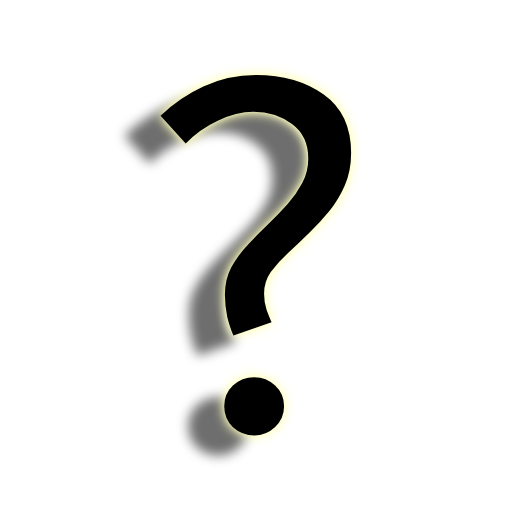
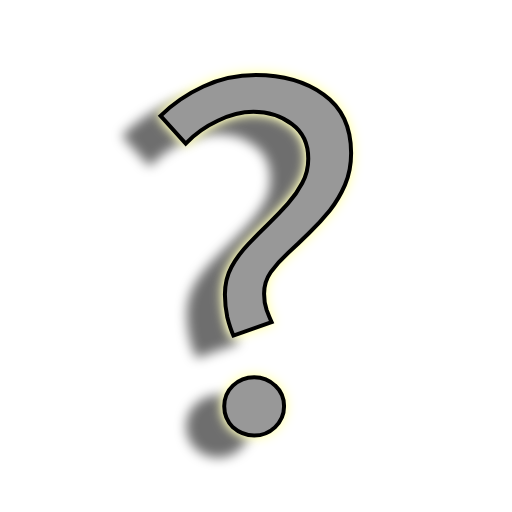
refactor: Centralise da roobot and mouse control in MouseOwner

Changed region(s): [[0.3125, 0.125, 0.6875, 0.6562], [0.4062, 0.7188, 0.5625, 0.875]]

diff --git a/src/main/java/com/j3d/engine/interact/input/mouse/MouseOwner.java b/src/main/java/com/j3d/engine/interact/input/mouse/MouseOwner.java
@@ -1,6 +1,8 @@
 package com.j3d.engine.interact.input.mouse;
 
 import com.j3d.StaticRefs;
+import com.j3d.engine.EngineException;
+import com.j3d.engine.interact.InteractionException;
 import com.j3d.engine.math.ScreenPoint;
 import com.j3d.engine.interact.selection.SelectionMouseOwner;
 import com.j3d.engine.react.events.*;
@@ -45,7 +47,8 @@ public class MouseOwner extends MouseAdapter implements EventEmitterInterface {
     private final MOwner owner;
 
     private Point old = new Point(0 ,0);
-    public Mouse physicalMouse = new Mouse(0, 0);
+    private final Mouse physicalMouse = new Mouse(0, 0);
+    private Robot robot;
 
     /**
      * Creates a new MouseOwner with the given owner.
@@ -53,6 +56,13 @@ public class MouseOwner extends MouseAdapter implements EventEmitterInterface {
      */
     public MouseOwner(MOwner owner) {
         this.owner = owner;
+        try {
+            robot = new Robot();
+        } catch (AWTException e) {
+            StaticRefs.getErrs().handle(
+                    new InteractionException("Robot could not be instantiated", e).code(101)
+            );
+        }
     }
 
     /**
@@ -61,7 +71,7 @@ public class MouseOwner extends MouseAdapter implements EventEmitterInterface {
      * @param clickDelayThreshold The threshold for the click delay.
      */
     public MouseOwner(MOwner owner, int clickDelayThreshold) {
-        this.owner = owner;
+        this(owner);
         this.clickDelayThreshold = clickDelayThreshold;
     }
 
@@ -207,6 +217,14 @@ public class MouseOwner extends MouseAdapter implements EventEmitterInterface {
         clickDelay = 0;
     }
 
+    public void sendMouseToCentre() {
+        EngineFrame frame = StaticRefs.getMainFrame();
+        int centerX = frame.getX() + frame.getWidth() / 2;
+        int centerY = frame.getY() + frame.getHeight() / 2;
+        robot.mouseMove(centerX, centerY);
+        physicalMouse.moveAndReset(centerX, centerY);
+    }
+
     /**
      * Handles mouse wrapping behavior, allowing the mouse cursor to "teleport" from one side of the screen
      * to the other when it reaches the edge. It also updates the internal {@link #physicalMouse} coordinates
@@ -220,42 +238,30 @@ public class MouseOwner extends MouseAdapter implements EventEmitterInterface {
     public void wrap(MouseEvent e) {
         if (e.getX() + 10 > StaticRefs.getSceneManager().screenSize.width) {
             // move the mouse to the oppsite side
-            try {
-                Robot robot = new Robot();
-                // If
-                robot.mouseMove(
-                        StaticRefs.getMainFrame().getLocationOnScreen().x -
-                                (StaticRefs.getSceneManager().screenSize.width + 5),
-                        e.getY() /* +
-                                (StaticRefs.getSceneManager().screenSize.height - e.getY() )*/
-                );
-                physicalMouse.addX(5);
-                old = new Point(
-                        5,
-                        e.getPoint().y
-                );
-            } catch (Exception ex) {
-                throw new RuntimeException(ex);
-            }
-        } else if (e.getX() - 8 <= 0 && physicalMouse.getX() - StaticRefs.getSceneManager().screenSize.width > 0) {
-            // move the mouse to the oppsite side
-            try {
-                Robot robot = new Robot();
-                // If
-                robot.mouseMove(
-                        StaticRefs.getMainFrame().getLocationOnScreen().x +
-                                (StaticRefs.getSceneManager().screenSize.width - 2),
-                        e.getY() /* +
-                                (StaticRefs.getSceneManager().screenSize.height - e.getY() )*/
-                );
-                physicalMouse.addX(-2);
-                old = new Point(
-                        StaticRefs.getSceneManager().screenSize.width - 2,
-                        e.getPoint().y
-                );
-            } catch (Exception ex) {
-                throw new RuntimeException(ex);
-            }
+            robot.mouseMove(
+                    StaticRefs.getMainFrame().getLocationOnScreen().x -
+                            (StaticRefs.getSceneManager().screenSize.width + 5),
+                    e.getY() /* +
+                            (StaticRefs.getSceneManager().screenSize.height - e.getY() )*/
+            );
+            physicalMouse.addX(5);
+            old = new Point(
+                    5,
+                    e.getPoint().y
+            );
+        } else if (e.getX() - 8 <= 0 /*&& physicalMouse.getX() - StaticRefs.getSceneManager().screenSize.width > 0*/) {
+            // move the mouse to the opposite side
+            robot.mouseMove(
+                    StaticRefs.getMainFrame().getLocationOnScreen().x +
+                            (StaticRefs.getSceneManager().screenSize.width - 2),
+                    e.getY() /* +
+                            (StaticRefs.getSceneManager().screenSize.height - e.getY() )*/
+            );
+            physicalMouse.addX(-2);
+            old = new Point(
+                    StaticRefs.getSceneManager().screenSize.width - 2,
+                    e.getPoint().y
+            );
         } else {
             physicalMouse.addX(e.getPoint().x - old.x).addY(e.getPoint().y - old.y);
             old = e.getPoint();

diff --git a/src/main/java/com/j3d/engine/interact/input/mouse/Mouse.java b/src/main/java/com/j3d/engine/interact/input/mouse/Mouse.java
@@ -4,7 +4,7 @@ import java.awt.*;
 import java.awt.event.MouseEvent;
 
 public class Mouse {
-    int x, y;
+    int x, y, deltaX, deltaY;
     public Mouse(int x, int y) {
         this.x = x;
         this.y = y;
@@ -16,32 +16,44 @@ public class Mouse {
         return y;
     }
 
-    public Mouse setX(int x) {
-        this.x = x;
-        return this;
-    }
-    public Mouse setY(int y) {
-        this.y = y;
-        return this;
-    }
+//    public Mouse setX(int x) {
+//        this.x = x;
+//        return this;
+//    }
+//    public Mouse setY(int y) {
+//        this.y = y;
+//        return this;
+//    }
 
     public Mouse addX(int x) {
         this.x += x;
+        this.deltaX = x;
         return this;
     }
     public Mouse addY(int y) {
         this.y += y;
+        this.deltaY = y;
         return this;
     }
 
-    public void add(Point e, Point old) {
-        x += e.x - old.x;
-        y += e.y - old.y;
+    public int getDeltaX() {
+        return deltaX;
+    }
+
+    public int getDeltaY() {
+        return deltaY;
     }
 
     public void reset() {
         x = 0;
         y = 0;
+    }
+
+    public void moveAndReset(int x, int y) {
+        this.x = x;
+        this.y = y;
+        this.deltaX = 0;
+        this.deltaY = 0;
     }
 
     @Override

diff --git a/src/main/java/com/j3d/engine/interact/cmd/commands/orbit/OrbitMouseOwner.java b/src/main/java/com/j3d/engine/interact/cmd/commands/orbit/OrbitMouseOwner.java
@@ -46,18 +46,7 @@ public class OrbitMouseOwner extends MouseOwner {
         startY = 0;
         CursorManager.set(CursorNames.HAND_GRAB);
         // set the mouse to the centre of the screen.
-        try {
-            Robot robot = new Robot();
-            EngineFrame frame = StaticRefs.getMainFrame();
-            int centerX = frame.getX() + frame.getWidth() / 2;
-            int centerY = frame.getY() + frame.getHeight() / 2;
-            robot.mouseMove(centerX, centerY);
-            startX = centerX;
-            startY = centerY;
-        } catch (Exception err) {
-            throw new RuntimeException(err);
-        }
-
+        sendMouseToCentre();
     }
 
     @Override

diff --git a/src/main/java/com/j3d/engine/interact/InteractionException.java b/src/main/java/com/j3d/engine/interact/InteractionException.java
@@ -1,0 +1,15 @@
+package com.j3d.engine.interact;
+
+import com.j3d.errors.ErrorCodes;
+import com.j3d.errors.J3DError;
+import com.j3d.errors.severity.J3DFatal;
+
+public class InteractionException extends J3DError implements J3DFatal {
+    public InteractionException(String message) {
+        super(message, ErrorCodes.ENGINE_CORE_INTERACT.getBaseCode());
+    }
+
+    public InteractionException(String message, Throwable cause) {
+        super(message, cause, ErrorCodes.ENGINE_CORE_INTERACT.getBaseCode());
+    }
+}

diff --git a/src/main/java/com/j3d/engine/interact/cmd/commands/transform/qtrans/QTranslateMouseOwner.java b/src/main/java/com/j3d/engine/interact/cmd/commands/transform/qtrans/QTranslateMouseOwner.java
@@ -97,6 +97,7 @@ public class QTranslateMouseOwner extends MouseOwner {
         super.clear();
         pointsToTransform.clear();
         cachedPlane = null;
+        cachedCentre = null;
     }
 
     public void using(ArrayList<GPoint> pointsToTransform) {

diff --git a/src/main/java/com/j3d/errors/ErrorCodes.java b/src/main/java/com/j3d/errors/ErrorCodes.java
@@ -9,6 +9,7 @@ public enum ErrorCodes {
     ENGINE_CORE(40),
     ENGINE_CORE_SCENE(41),
     ENGINE_CORE_MATH(42),
+    ENGINE_CORE_INTERACT(43),
 
     IO(50);
 
